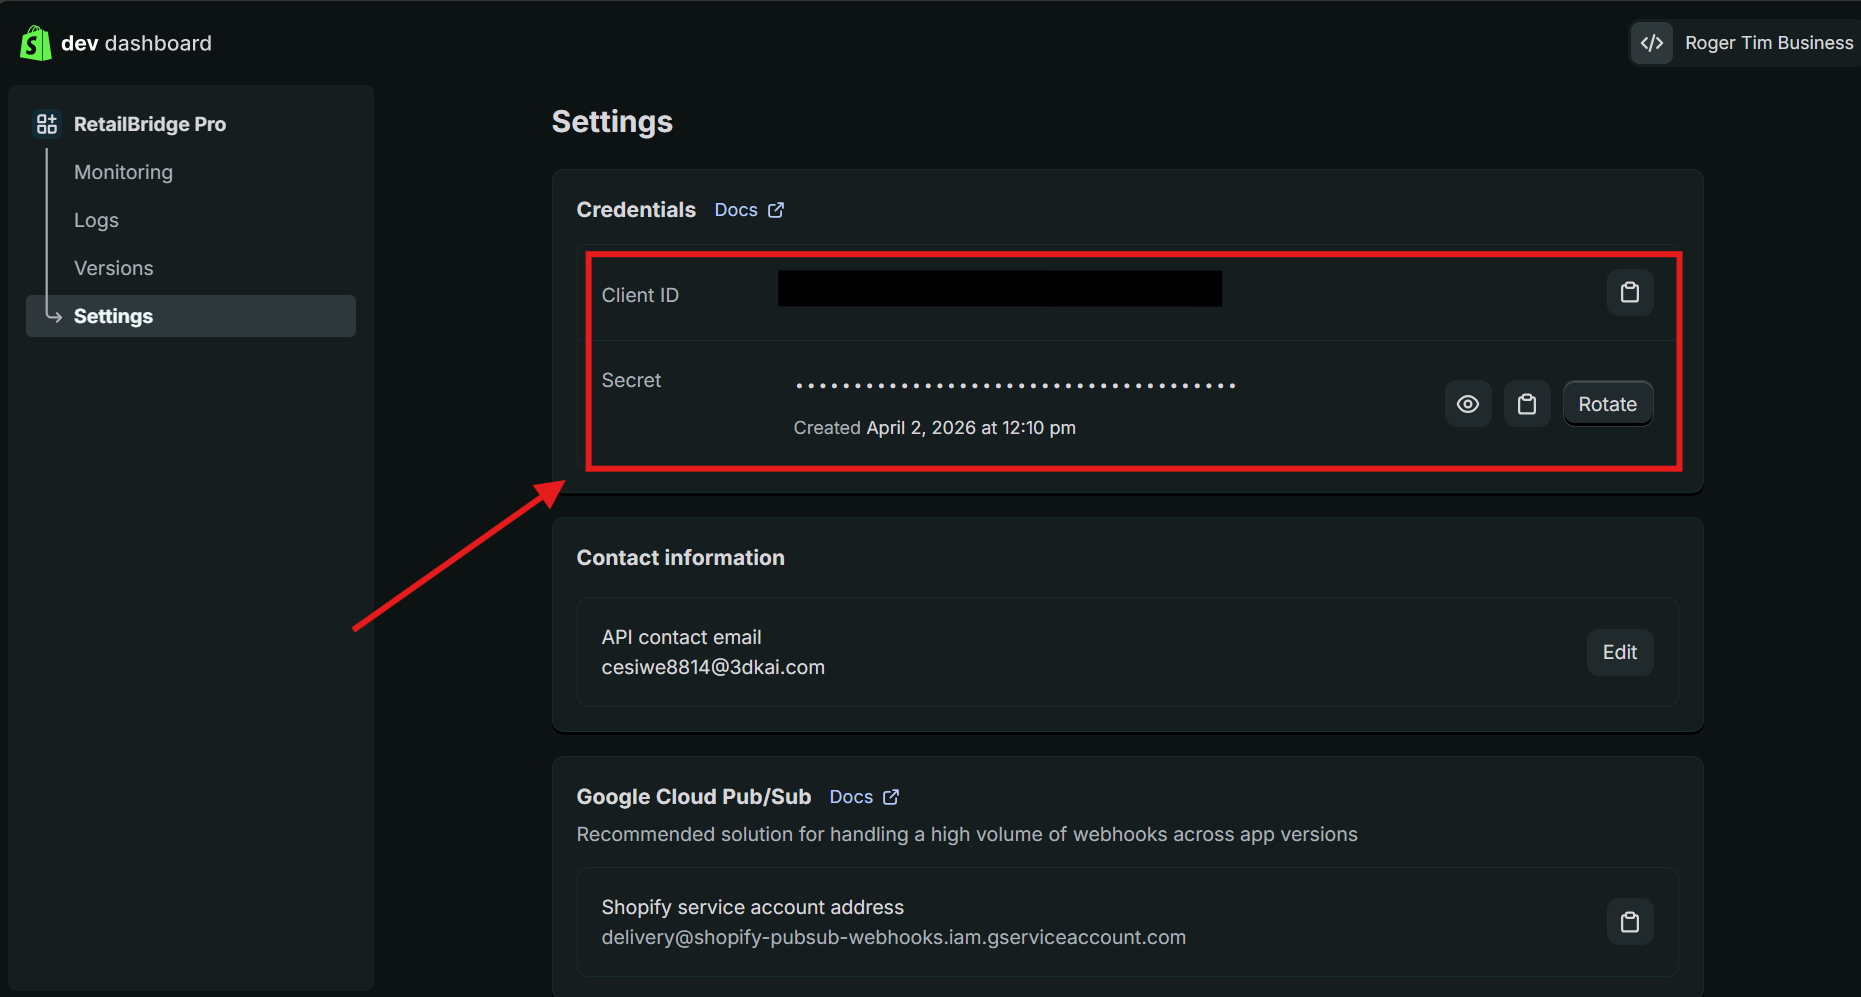
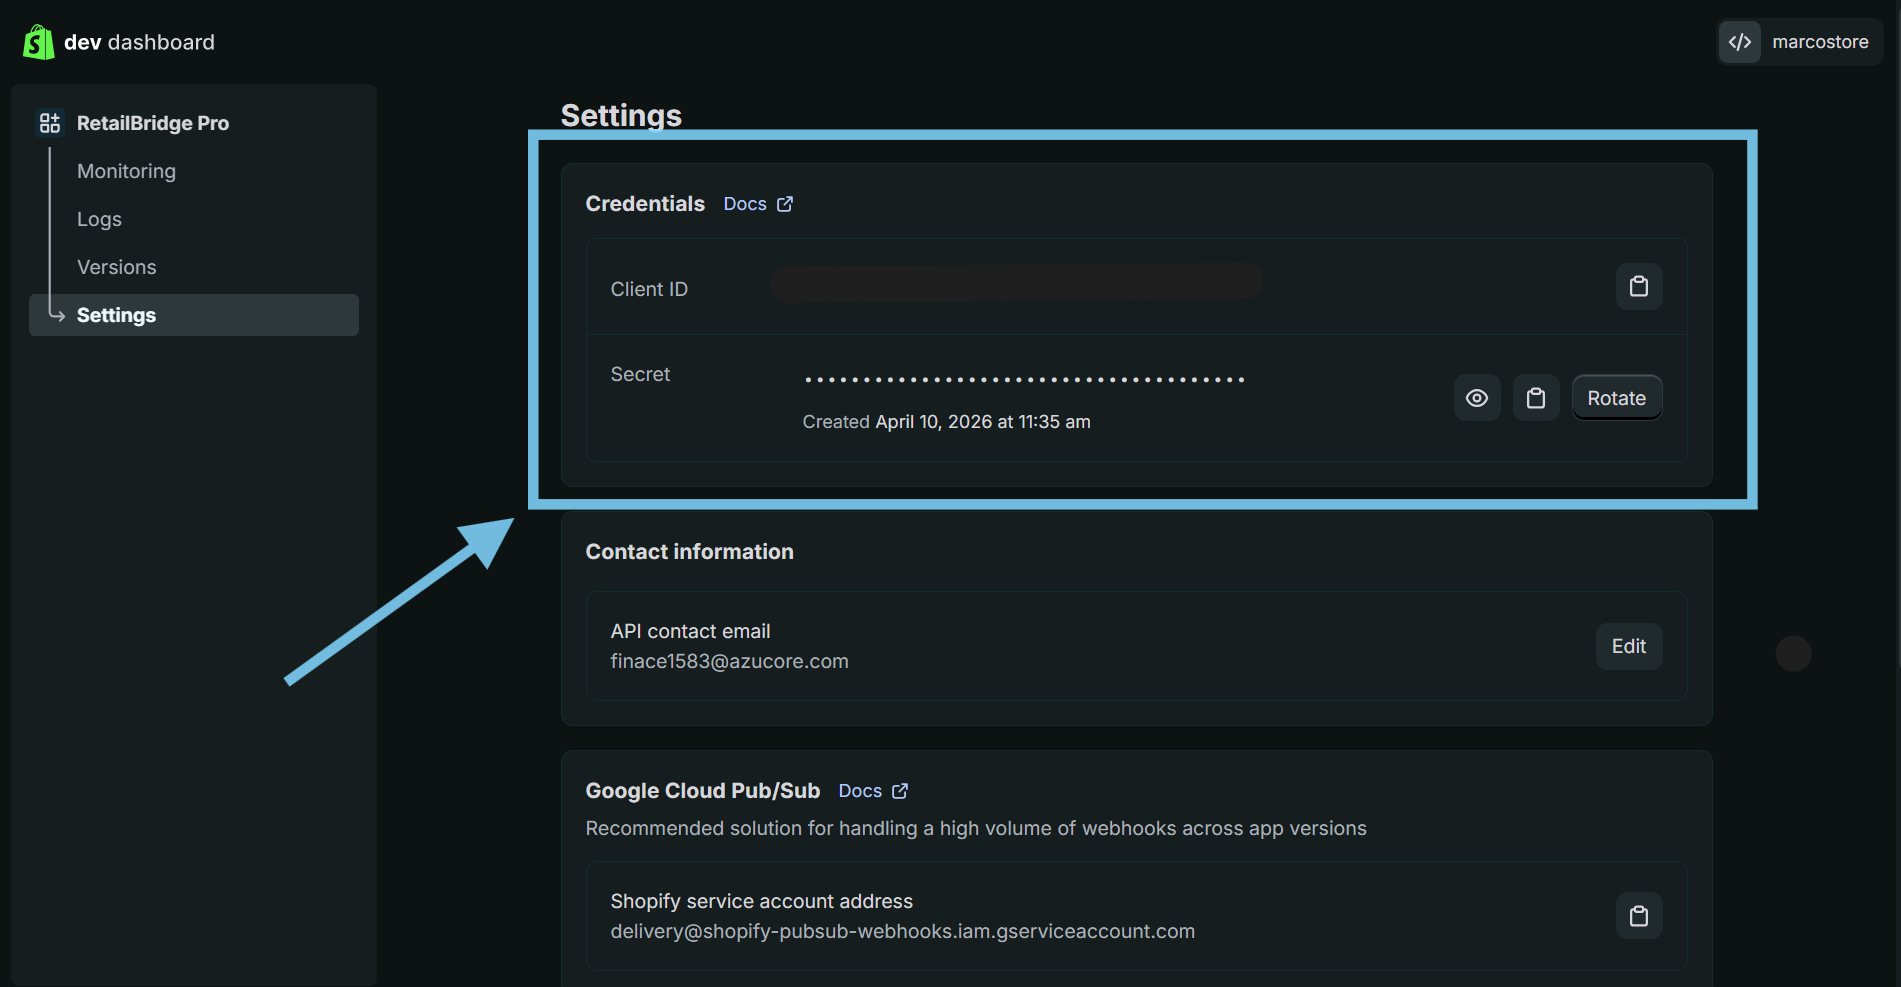
feat: update Shopify documentation with new images and improved OAuth 2.0 setup instructions

diff --git a/docs/app_integrations/shopify.md b/docs/app_integrations/shopify.md
@@ -15,7 +15,177 @@ import Tabs from '@theme/Tabs';
 import TabItem from '@theme/TabItem';
 
 <Tabs>
-  <TabItem value="api-key" label="API Key" default>
+  <TabItem value="oauth2" label="OAuth 2.0" default>
+
+## Setup Credential — OAuth 2.0
+
+Follow the steps below to connect your Shopify store to appse ai using OAuth 2.0. This method uses a **Client ID** and **Client Secret** obtained from the Shopify Dev Dashboard.
+
+### Prerequisites
+
+Before starting, make sure:
+
+- You have access to a Shopify store admin account.
+- You can log in to the Shopify admin portal.
+
+### Required Fields
+
+You'll be asked to fill in the following details:
+
+| Field           | Description                                                                              |
+|-----------------|------------------------------------------------------------------------------------------|
+| Connection Name | A name to help you identify this connection.                                             |
+| Store Domain    | The domain of your Shopify store (e.g., `newstore`).                     |
+| Client ID       | Obtained from your app's Settings page in the Shopify Dev Dashboard.                    |
+| Client Secret   | Obtained from your app's Settings page in the Shopify Dev Dashboard.                    |
+| Scope           | The OAuth 2.0 permission scopes for your credential.                                     |
+| Callback URL    | Auto-filled automatically. This field is non-editable and pre-populated by appse ai. Use this URL to configure the Redirect URL while creating the Shopify App.   |
+
+---
+
+### Step-by-Step Guide
+
+#### Step 1: Log in to Shopify Admin
+
+Open [Shopify Admin](https://admin.shopify.com) and log in using your Shopify admin credentials.
+
+---
+
+#### Step 2: Open Apps Settings
+
+From the left-hand menu, click **Settings** at the bottom.
+<img src="\img\credentials\shopify\s1.png"  width="700"/>
+
+Then, from the Settings menu, click **Apps**.
+<img src="\img\credentials\shopify\s2.png"  width="700"/>
+
+---
+
+#### Step 3: Open Develop Apps
+
+On the Apps page, click **"Develop apps"** from the top-right section.
+<img src="\img\credentials\shopify\s3.png"  width="700"/>
+
+---
+
+#### Step 4: Open the Dev Dashboard
+
+Click **"Build apps in Dev Dashboard"**.
+<img src="\img\credentials\shopify\s4.png"  width="700"/>
+
+---
+
+#### Step 5: Create a New App
+
+In the Dev Dashboard, click **"Create app"** from the top-right section.
+<img src="\img\credentials\shopify\s5.png"  width="700"/>
+
+You will see the **"Start from Dev Dashboard"** section.
+
+Enter a valid app name (must be within 30 characters), then click **"Create"**.
+<img src="\img\credentials\shopify\s6.png"  width="700"/>
+
+---
+
+#### Step 6: App URL
+
+In the **App URL** field, no modification is required since this app is intended for your organization's use only.
+
+---
+
+#### Step 7: Configure API Scopes
+
+Go to the **Admin API scope configuration** section.
+Select the scopes relevant to the APIs you want to use — such as customer, order, or product scopes — then **Save** the configuration. You can also use the default scopes displayed in the Shopify Credential form in appse ai platform.
+<img src="\img\credentials\shopify\s7.png"  width="700"/>
+
+---
+
+#### Step 8: Configure the Redirect URL
+
+In the **Redirect URL** section, add the Callback URL exactly as displayed in the Shopify Credential form in appse ai platform:
+
+**For example**
+```
+https://embedded-ui.appse.ai/oauth-callback.html
+```
+<img src="\img\credentials\shopify\s8.png"  width="700"/>
+
+> ⚠ Make sure the URL is entered **exactly** as shown in credential form, including `https://`. This URL is required for appse ai to complete the OAuth 2.0 authorization flow.
+
+---
+
+#### Step 9: Release the App Version
+
+Click **"Release"**.
+<img src="\img\credentials\shopify\s9.png"  width="700"/>
+
+You will be prompted for an app version value. Enter a version (e.g., `v1`) to keep track of your app versioning, then click **"Release"** again.
+
+After this, the app version will become active.
+<img src="\img\credentials\shopify\s10.png"  width="700"/>
+
+---
+
+#### Step 10: Get Client ID and Client Secret
+
+Click **"Settings"** from the left menu inside your app.
+<img src="\img\credentials\shopify\s11.png"  width="700"/>
+
+You will see:
+
+- **Client ID** — Copy this directly.
+- **Client Secret** — Click the copy button next to it.
+<img src="\img\credentials\shopify\s12.png"  width="700"/>
+
+> ⚠ Store both values securely. You will need them to complete the credential setup in appse ai.
+
+---
+
+#### Step 11: Configure the Credential Form in appse ai
+
+1. **Enter the Shop Subdomain**  
+   From the left-hand menu, click **Settings** at the bottom.
+  <img src="\img\credentials\shopify\s1.png"  width="700"/>
+
+   The Shop Subdomain is displayed at the top of the sidebar menu.
+   <img src="\img\credentials\shopify\s19.png"  width="700"/>
+   > **Example:** If your Shopify subdomain looks like **marcostore-9454.myshopify.com**, you only need to paste **marcostore-9454** in the credential form. 
+
+   <img src="\img\credentials\shopify\s14.png" width="700"/>
+
+2. **Enter the Client Credentials**  
+   Fill in the following details:
+   - **Client ID**
+   - **Client Secret**  
+   <img src="\img\credentials\shopify\s13.png" width="700"/>
+
+3. **Save the Configuration**  
+   Click on the **"Save"** button. A popup will appear prompting you to log in using your Shopify account.
+
+4. **Authenticate Your Shopify Account**  
+   Enter your Shopify Admin Account's:
+   - **Email Address**
+   - **Password**
+   <img src="\img\credentials\shopify\s17.png" width="700"/>
+
+5. **Install the App**  
+   After logging in, proceed to install the app you developed.
+   A warning maybe displayed stating that the app hasn’t been reviewed. This is expected for custom or private apps.
+
+   <img src="\img\credentials\shopify\s15.png" width="700"/>
+
+6. **Confirmation**  
+   Once the installation is successful:
+   - The credentials will be authenticated  
+   - Saved securely  
+   - Displayed on the **Credentials** page with a green tick that confirms that the credential is successfully validated
+
+   You can now use the credential for the required workflow integrations.  
+   <img src="\img\credentials\shopify\s18.png" width="700"/>
+
+  </TabItem>
+    <TabItem value="api-key" label="API Key">
 
 ## Setup Credential — API Key
 
@@ -118,140 +288,6 @@ Click the **"Reveal token once"** button. Copy the token and store it somewhere 
 Enter the **Store Subdomain** and **Admin API Access Token** in appse ai and click **"Save"**.
 
 If you followed all the steps correctly, your credential will be connected successfully.
-
-  </TabItem>
-  <TabItem value="oauth2" label="OAuth 2.0">
-
-## Setup Credential — OAuth 2.0
-
-Follow the steps below to connect your Shopify store to appse ai using OAuth 2.0. This method uses a **Client ID** and **Client Secret** obtained from the Shopify Dev Dashboard.
-
-### Prerequisites
-
-Before starting, make sure:
-
-- You have access to a Shopify store admin account.
-- You can log in to the Shopify admin portal.
-
-### Required Fields
-
-You'll be asked to fill in the following details:
-
-| Field           | Description                                                                              |
-|-----------------|------------------------------------------------------------------------------------------|
-| Connection Name | A name to help you identify this connection.                                             |
-| Store Domain    | The domain of your Shopify store (e.g., `newstore`).                     |
-| Client ID       | Obtained from your app's Settings page in the Shopify Dev Dashboard.                    |
-| Client Secret   | Obtained from your app's Settings page in the Shopify Dev Dashboard.                    |
-| Scope           | The OAuth 2.0 permission scopes for your credential.                                     |
-| Callback URL    | Auto-filled automatically. This field is non-editable and pre-populated by appse ai.    |
-
----
-
-### Step-by-Step Guide
-
-#### Step 1: Log in to Shopify Admin
-
-Open [Shopify Admin](https://admin.shopify.com) and log in using your Shopify admin credentials.
-
----
-
-#### Step 2: Open Apps Settings
-
-From the left-hand menu, click **Settings** at the bottom.
-<img src="\img\credentials\shopify\s1.png"  width="700"/>
-
-Then, from the Settings menu, click **Apps**.
-<img src="\img\credentials\shopify\s2.png"  width="700"/>
-
----
-
-#### Step 3: Open Develop Apps
-
-On the Apps page, click **"Develop apps"** from the top-right section.
-<img src="\img\credentials\shopify\s3.png"  width="700"/>
-
----
-
-#### Step 4: Open the Dev Dashboard
-
-Click **"Build apps in Dev Dashboard"**.
-<img src="\img\credentials\shopify\s4.png"  width="700"/>
-
----
-
-#### Step 5: Create a New App
-
-In the Dev Dashboard, click **"Create app"** from the top-right section.
-<img src="\img\credentials\shopify\s5.png"  width="700"/>
-
-You will see the **"Start from Dev Dashboard"** section.
-
-Enter a valid app name (must be within 30 characters), then click **"Create"**.
-<img src="\img\credentials\shopify\s6.png"  width="700"/>
-
----
-
-#### Step 6: App URL
-
-In the **App URL** field, no modification is required since this app is intended for your organization's use only.
-
----
-
-#### Step 7: Configure API Scopes
-
-Go to the **Admin API scope configuration** section.
-
-Select the scopes relevant to the APIs you want to use — such as customer, order, or product scopes — then **Save** the configuration.
-<img src="\img\credentials\shopify\s7.png"  width="700"/>
-
----
-
-#### Step 8: Configure the Redirect URL
-
-In the **Redirect URL** section, add the following callback URL exactly as shown:
-
-```
-https://embedded-ui.appse.ai/oauth-callback.html
-```
-<img src="\img\credentials\shopify\s8.png"  width="700"/>
-
-> ⚠ Make sure the URL is entered **exactly** as shown above, including `https://`. This URL is required for appse ai to complete the OAuth 2.0 authorization flow.
-
----
-
-#### Step 9: Release the App Version
-
-Click **"Release"**.
-<img src="\img\credentials\shopify\s9.png"  width="700"/>
-
-You will be prompted for an app version value. Enter a version (e.g., `v1`) to keep track of your app versioning, then click **"Release"** again.
-
-After this, the app version will become active.
-<img src="\img\credentials\shopify\s10.png"  width="700"/>
-
----
-
-#### Step 10: Get Client ID and Client Secret
-
-Click **"Settings"** from the left menu inside your app.
-<img src="\img\credentials\shopify\s11.png"  width="700"/>
-
-You will see:
-
-- **Client ID** — Copy this directly.
-- **Client Secret** — Click the copy button next to it.
-<img src="\img\credentials\shopify\s12.png"  width="700"/>
-
-> ⚠ Store both values securely. You will need them to complete the credential setup in appse ai.
-
----
-
-#### Step 11: Add the Fields to Appse AI
-
-Enter the **Client ID** and **Client Secret** in appse ai and click **"Save"**.
-
-If you followed all the steps correctly, your credential will be connected successfully via OAuth 2.0.
 
   </TabItem>
 </Tabs>
